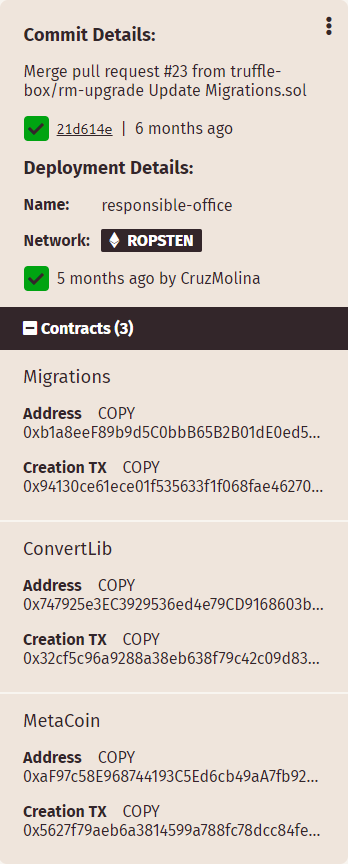
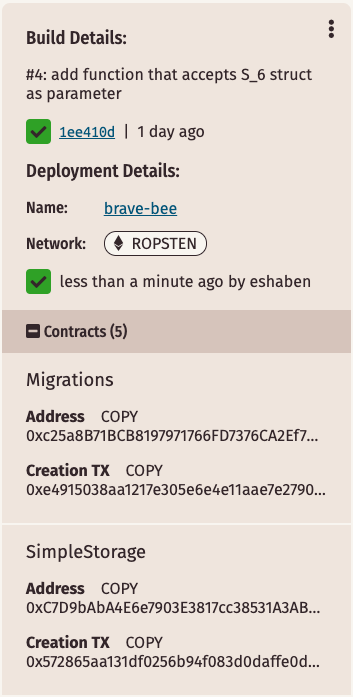
update images and docs for the two different views for creating a deployment

Changed region(s): [[0.0, 0.0301, 1.0, 0.9943], [0.9195, 0.0, 0.9483, 0.0603], [0.8908, 0.9641, 0.9195, 0.9943]]

diff --git a/src/docs/teams/deployments/creating-a-deployment.md b/src/docs/teams/deployments/creating-a-deployment.md
@@ -2,21 +2,54 @@
 title: Teams | Creating a deployment
 layout: docs.hbs
 ---
+
 # Creating a deployment
 
-To begin a deployment, press **<span class="inline-button">DEPLOY <i class="far fa-parachute-box"></i></span>**  on the commit you'd like to deploy. Currently Truffle Teams supports Ethereum testnets, Ethereum Mainnet, and [sandboxes](/docs/teams/sandboxes/sandboxes-overview) with support for more target networks over time.
+Currently Truffle Teams supports deployments to Ethereum testnets, Ethereum Mainnet, and [sandboxes](/docs/teams/sandboxes/sandboxes-overview) with support for more target networks over time.
+
+Creating a deployment slightly differs depending on which view you have selected for the **<span class="inline-menu-item"><i class="fal fa-parachute-box"></i>DEPLOYMENTS</span>** page. The general process is as follows:
+
+1. [Choose a commit to deploy](#choose-a-commit-to-deploy)
+1. [Select network and connect wallet](#select-network-and-connect-wallet)
+1. [Select a deployment context](#select-a-deployment-context)
+1. [Start deployment](#start-deployment)
+1. [Finalize deployment](#finalize-deployment)
+
+## Choose a commit to deploy
+
+This step can differ slightly depending on which deployments view you are using, [card](#card-view) or [table](#table-view).
+
+### Card view
+
+To begin a deployment, press **<span class="inline-button">DEPLOY <i class="far fa-parachute-box"></i></span>** on the build you'd like to deploy. You can also click **<span class="inline-button"><i class="fas fa-rocket"></i> NEW DEPLOYMENT</span>**. The deployment wizard modal will pop-up and walk you through the deployment process.
 
 <figure>
-  <img class="mb-5" src="/img/docs/teams/commit-card.png" alt="Commit Card">
+  <img class="figure-shadow mb-2" src="/img/docs/teams/commit-card.png" alt="Commit Card">
 </figure>
 
-A wizard will pop up; select a Destination Network, then press **<span class="inline-button">CONNECT WALLET</span>**.
+### Table view
 
-![Deployment Wizard Ropsten Select](/img/tutorials/learn-how-to-deploy-with-truffle-teams/deployment-wizard-ropsten-select.png)
+For the table view, you'll select a build to deploy from within the deployment wizard. To start a deployment, click **<span class="inline-button"><i class="fas fa-rocket"></i> NEW DEPLOYMENT</span>**, this will open the deployment wizard modal. Under **Build to Deploy**, select which build you would like to deploy from the dropdown.
+
+<figure>
+  <img class="figure-shadow mb-2" src="/img/docs/teams/table-view-deployment-wizard.png" alt="Table view deployment wizard">
+  <figcaption class="text-center font-italic">Deployment wizard</figcaption>
+</figure>
+
+## Select network and connect wallet
+
+Within the deployment wizard, select a **Destination Network**, if your wallet has already been setup you can move on to the [Select a deployment context](#select-a-deployment-context) step. If your wallet has not been setup, you'll be able to see and click on the **<span class="inline-button">CONNECT WALLET</span>** button.
+
+<figure>
+  <img class="figure-shadow mb-2" src="/img/docs/teams/select-network-connect-wallet.png" alt="Deployment wizard modal">
+  <figcaption class="text-center font-italic">Deployment wizard</figcaption>
+</figure>
 
 MetaMask will pop up asking you to login (if you haven't already). Then you will need to press **Connect** to confirm the connection with Truffle Teams.
 
-![MetaMask Connect](/img/tutorials/learn-how-to-deploy-with-truffle-teams/metamask-connect.png)
+<figure>
+  <img class="figure-shadow mb-2" src="/img/docs/teams/metamask-connect.png" alt="Deployment wizard modal and MetaMask connect pop-up" style="width:100%">
+</figure>
 
 If the wizard hasn't changed (i.e. you don't see a button to start deploying), you likely need to switch your MetaMask network to the destination network. This may reload the page; if this happens, you'll need to repeat the steps above.
 
@@ -26,13 +59,21 @@ Before moving on, make sure you have the correct account selected in MetaMask.
 
 ![MetaMask Account](/img/tutorials/learn-how-to-deploy-with-truffle-teams/metamask-account.png)
 
-Now you should see the wizard prompting for a **Deployment Context**. Leave it set to **Create a New Deployment**, or selet a previous deployment to migrate against (see below). Then, press **<span class="inline-button">OK, START DEPLOYING</span>**!
+## Select a deployment context
+
+Now you should see the wizard prompting for a **Deployment Context**. Leave it set to **Create a New Deployment**, or selet a previous deployment to migrate against.
 
 <p class="alert alert-info">
 <strong><i class="far fa-info-circle"></i> Deployment Context</strong>: This option will let you select an existing deployment on the same network that you'd like to use the deployed artifacts for. Truffle supports the concept of migrating your application and will only run the new migration scripts from the last deployment (a.k.a. the deployment context). This becomes useful in a handful of scenarios: maybe you added an extra contract to work with your existing deployment, your Truffle project uses proxy contracts to upgrade your contracts, and more. Technically speaking, selecting the Deployment Context will put the Truffle artifacts from the deployment context you selected in the directory before running `truffle migrate`.
 </p>
 
-![Deployment Wizard Ready](/img/tutorials/learn-how-to-deploy-with-truffle-teams/deployment-wizard-ready.png)
+## Start deployment
+
+Now you should be able to see and click on **<span class="inline-button">OK, START DEPLOYING</span>** to begin your deployment!
+
+<figure>
+  <img class="figure-shadow mb-2" src="/img/docs/teams/deployment-wizard-ready.png" alt="Deployment wizard modal ready">
+</figure>
 
 <p class="alert alert-warning">
 <strong><i class="far fa-exclamation-triangle"></i> Be Aware</strong>: From here on, it's important that you don't close the tab, refresh the page, or lose network connection. We're working on a more robust experience that will enable you to pick up unfinished deployments, but for now our current version requires the tab to stay open and connected.
@@ -42,11 +83,15 @@ Truffle Teams will only process so many deployments at the same time, so you may
 
 Once your deployment has started processing, you'll see a list of steps Truffle Teams is doing to prepare for your deployment.
 
-![Deployment Wizard Preparing](/img/tutorials/learn-how-to-deploy-with-truffle-teams/deployment-wizard-preparing.png)
+<figure>
+  <img class="figure-shadow mb-2" src="/img/docs/teams/deployment-wizard-preparation.png" alt="Deployment wizard preparation steps modal">
+</figure>
 
 Once the preparation steps are complete, you'll see a screen with a list of your migrations being processed. You should also get a pop-up from MetaMask for your first transaction.
 
-![First Transaction](/img/tutorials/learn-how-to-deploy-with-truffle-teams/first-transaction.png)
+<figure>
+  <img class="figure-shadow mb-2" src="/img/docs/teams/deployment-wizard-first-tx.png" alt="Deployment wizard first transaction modal">
+</figure>
 
 You'll notice that this interface with MetaMask is like sending a transaction to any other dapp. It's your account that is sending this transaction, and you have complete control of it. Additionally, we highly recommend that you change the **GAS FEE** to be higher so that your transactions run quicker. For testnets like Ropsten, it's affordable to always select the **Fast** option.
 
@@ -54,11 +99,15 @@ You'll notice that this interface with MetaMask is like sending a transaction to
 
 Once you're happy with the transaction gas fee, press **Confirm** to send your transaction. Once the transaction is confirmed (the timing of confirmations from MetaMask and Truffle Teams may be slightly offset), you'll receive the next transaction. Repeat this process until you see a message that your deployment is being finalized.
 
+## Finalize deployment
+
 After a short wait, you'll see a window with your deployment results:
 
-![Deployment Results](/img/tutorials/learn-how-to-deploy-with-truffle-teams/deployment-results.png)
+<figure>
+  <img class="figure-shadow mb-2" src="/img/docs/teams/deployment-wizard-results.png" alt="Deployment wizard results modal">
+</figure>
 
-Your contracts are deployed! That was easy. Go ahead and push **<span class="inline-button">GREAT! GO BACK TO WORKFLOW</span>** or the **X** in the wizard. You'll now see a new card in the **Staging** column with the results of your deployment:
+Your contracts are deployed! That was easy. Go ahead and push **<span class="inline-button">GREAT! GO BACK TO WORKFLOW</span>** or the **X** in the wizard. If you're using the card view, you'll now see a new card in the **Staging** column with the results of your deployment.
 
 <figure>
   <img class="mb-5" src="/img/docs/teams/deployment-card.png" alt="Deployment Card">
@@ -77,3 +126,9 @@ You can also click the vertical 3 dots in the top right of the card to find a me
 </p>
 
 ![Deployment Card Menu](/img/tutorials/learn-how-to-deploy-with-truffle-teams/deployment-card-menu.png)
+
+If you're using the table view, you'll now see your new deployment in the first row of the deployments table. You can click on the **ACTIONS** dropdown menu to **Download Artifacts**, **Graduate**, or **Archive** the deployment.
+
+<figure>
+  <img class="figure-shadow mb-2" src="/img/docs/teams/deployment-table-actions-expanded.png" alt="Deployments table" style="width:100%">
+</figure>
